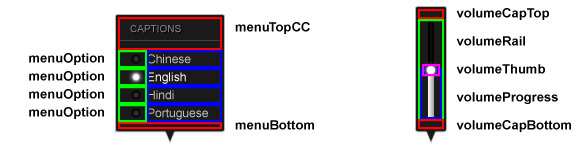
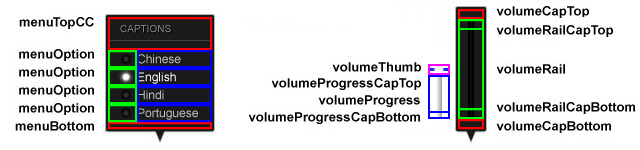
updated skinning docs with volume end caps
git-svn-id: http://developer.longtailvideo.com/svn/trunk@2543 6bf506d4-4edb-4b42-8bf1-84b36a5c7d31

Changed region(s): [[0.0, 0.0267, 0.9931, 0.96]]

diff --git a/jw6/doc/skin-reference.html b/jw6/doc/skin-reference.html
@@ -409,8 +409,16 @@ Element that's displayed above the rail. Used for drawing borders or emboss effe
 Element that's displayed below the rail. Used for drawing borders or emboss effects.
 </dd><dt>volumeRail</dt><dd>
 Background element for the vertical volume slider. The height of this rail is used as the range for the volume.
+</dd><dt>volumeRailCapTop</dt><dd>
+Top rail end cap, used to create round or fading edges. Overlaid by the thumb and progress elements.
+</dd><dt>volumeRailCapBottom</dt><dd>
+Bottom rail end cap, used to create round or fading edges. Overlaid by the thumb and progress elements.
 </dd><dt>volumeProgress</dt><dd>
 Element that visualizes the current volume percentage. Is masked for the current volume percentage.
+</dd><dt>volumeProgressCapTop</dt><dd>
+Top progress end cap, used to create round or fading edges. Overlaid by the thumb.
+</dd><dt>volumeProgressCapBottom</dt><dd>
+Bottom progress end cap, used to create round or fading edges. Overlaid by the thumb.
 </dd><dt>volumeThumb</dt><dd>
 Draggable thumb that indicates the current volume setting. Is not stretched.
 </dd></dl>
